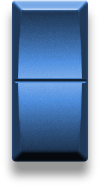
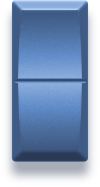
fix(skin): readable gain boxes, metallic fader handle, no meter-panel outline
- Suppress glow on structural bevels: meter-panel frame perimeter + gain-box
  wells (the white outline / black-blob rims are gone); restrict the bright-
  on-dark glow to the eroded interior so only text glows, not frames.
- Recolor the fader handle to a brighter metallic blue-silver grip (was low
  contrast on navy).

diff --git a/tools/recolor_twarch_glow.py b/tools/recolor_twarch_glow.py
@@ -36,9 +36,22 @@ local = np.asarray(Image.fromarray(L.astype(np.uint8)).filter(
     ImageFilter.GaussianBlur(LOCAL_R))).astype(np.float32)
 
 ink  = np.where(local > 90, np.clip(local - L - EDGE, 0, None), 0)
-lite = np.where(local < 95, np.clip(L - local - EDGE, 0, None), 0)
+# 'lite' (bright features on dark windows) only in the ERODED interior of dark regions,
+# so meter-panel frames / well rims / boundary bevels stop glowing — only interior text does.
+_darkin = np.asarray(Image.fromarray(((local < 95) * 255).astype(np.uint8))
+                     .filter(ImageFilter.MinFilter(9))) > 127
+lite = np.where(_darkin, np.clip(L - local - EDGE, 0, None), 0)
 text = np.clip(np.maximum(ink, lite) / NORM, 0, 1)
 text[TITLE_BOX[1]:TITLE_BOX[3], TITLE_BOX[0]:TITLE_BOX[2]] = 0   # suppress glow in title box
+
+# Suppress glow on structural bevels (not text): the meter-panel frame band + the gain-box wells.
+ML, MT, MR, MB = 421, 163, 878, 697
+yy, xx = np.mgrid[0:L.shape[0], 0:L.shape[1]]
+outer = (xx >= ML-15) & (xx <= MR+15) & (yy >= MT-15) & (yy <= MB+15)
+inner = (xx >= ML+15) & (xx <= MR-15) & (yy >= MT+15) & (yy <= MB-15)
+text[outer & ~inner] = 0                                         # meter-panel frame perimeter
+for gx in (94, 1107):                                            # gain-box wells (covered by CTextEdit)
+    text[204:282, gx-14:gx+114] = 0
 
 Ln = L[..., None]
 base = np.where(Ln <= 128, NAVY*(Ln/128.0), NAVY + (WHITE-NAVY)*((Ln-128)/127.0))
